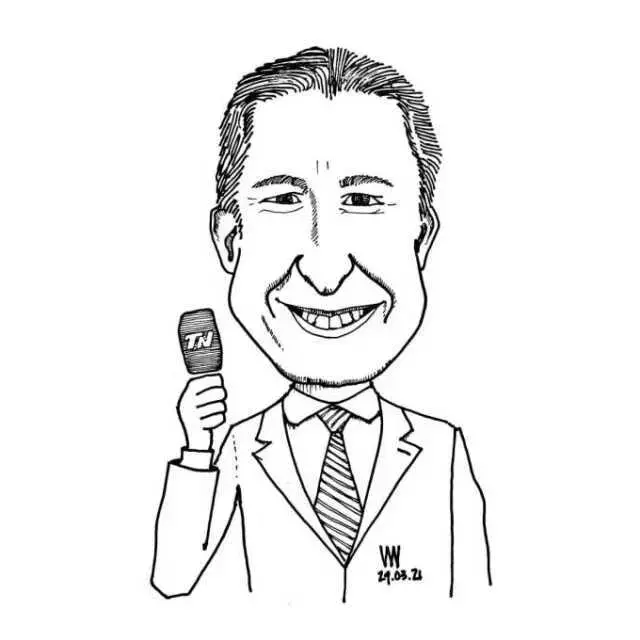
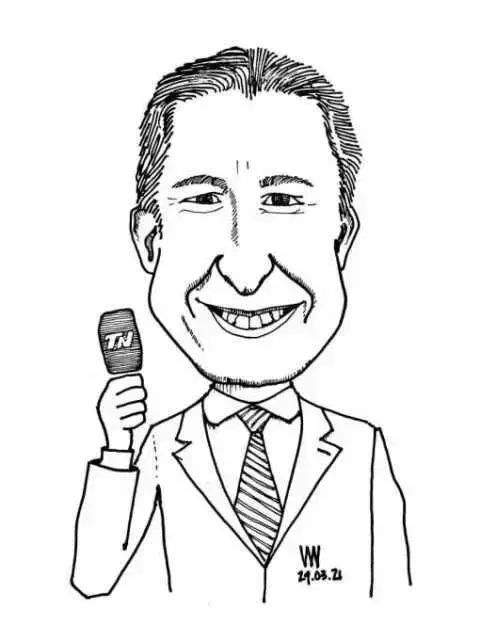
Version 20230308 a

Changed region(s): [[0.125, 0.0625, 0.8125, 0.9688], [0.8125, 0.7188, 0.875, 0.9375]]

diff --git a/MuestraFoto.html b/MuestraFoto.html
@@ -92,7 +92,7 @@
 
 <body>
 	<div class="container">
-		<img id="fotoActual" src="Galeria/JuanCampanella.webp" width="640" height="640" border="0" alt="" />
+		<img id="fotoActual" src="Galeria/JuanCampanella.webp" width="480" height="640" border="0" alt="" />
 		<button class="btn" onclick="history.back()">Volver</button>
 	</div>
 

diff --git a/css/lightbox.css b/css/lightbox.css
@@ -42,8 +42,10 @@ body.lb-disable-scrolling {
 .lb-outerContainer {
   position: relative;
   *zoom: 1;
-  width: 250px;
-  height: 250px;
+  /* width: 250px;
+  height: 250px; */
+  width: 240px;
+  height: 320px;
   margin: 0 auto;
   border-radius: 4px;
 
